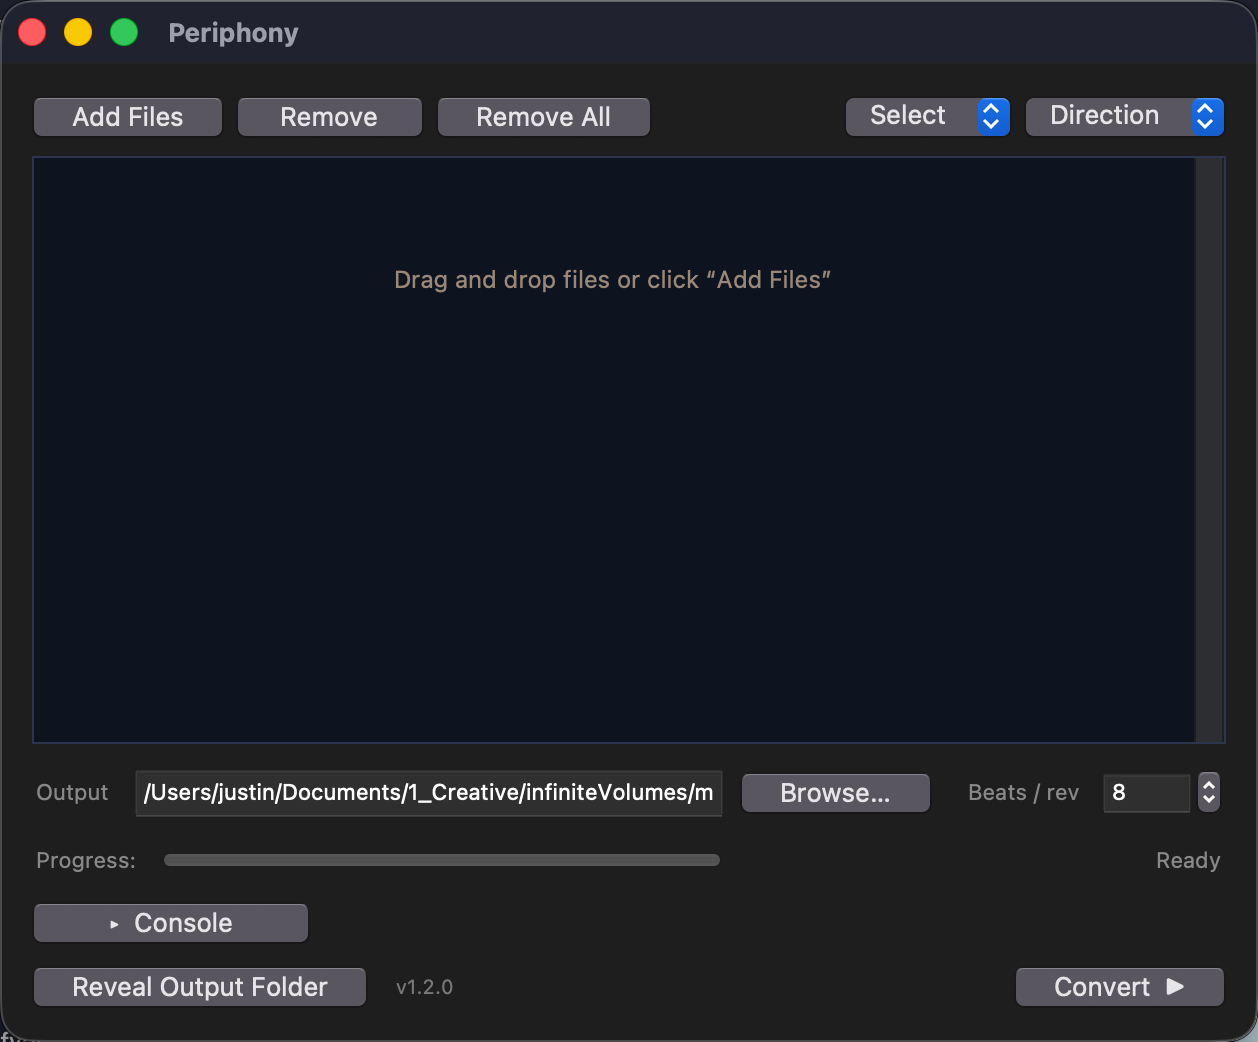
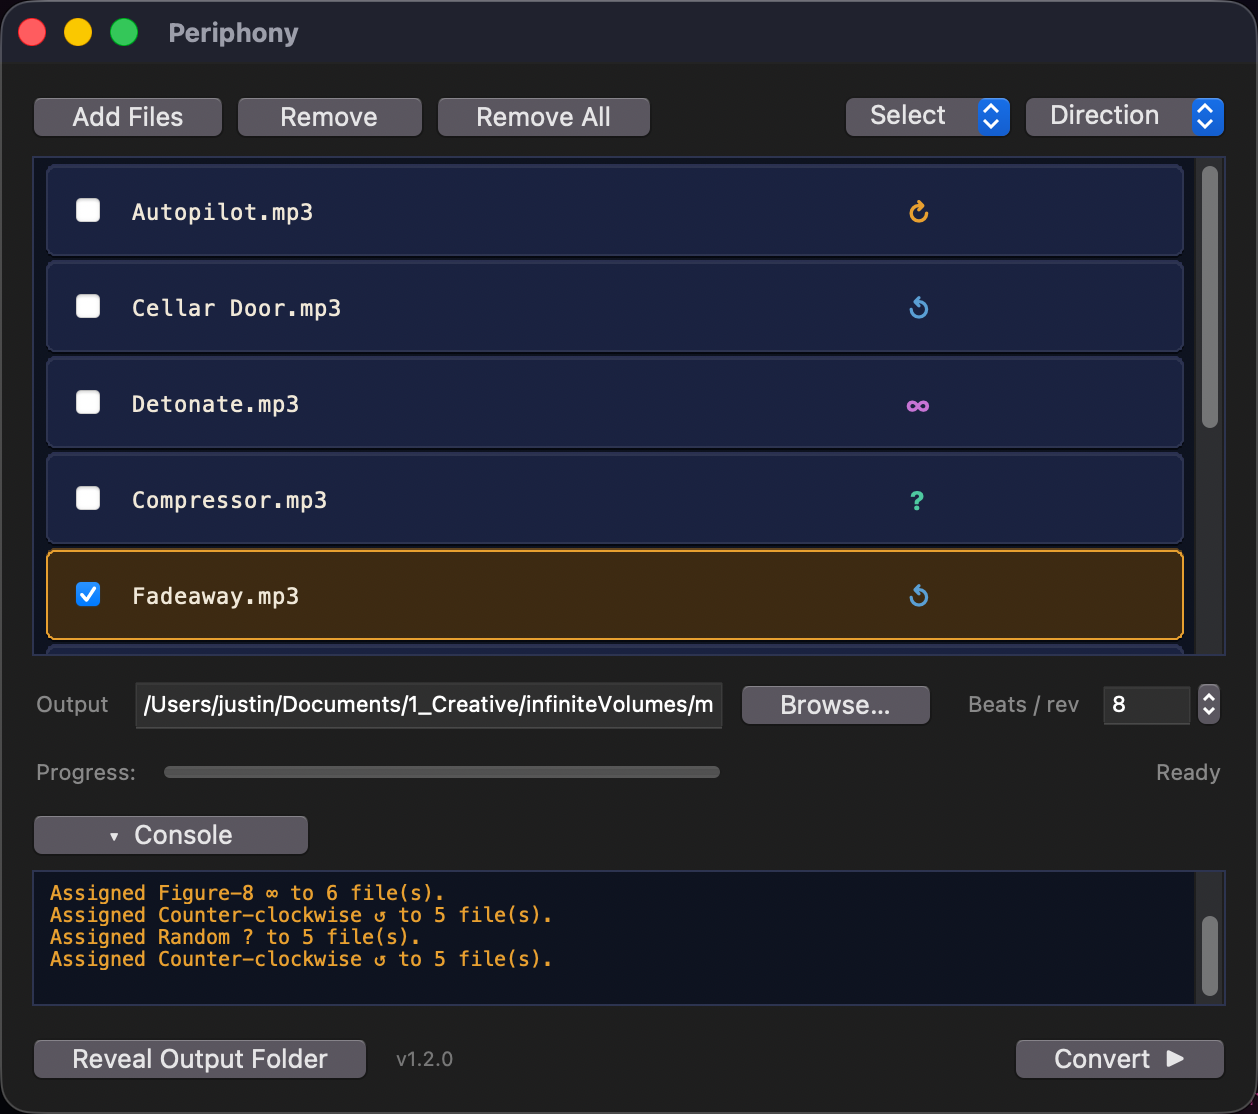
feat: shoot Periphony's real interface for the tile and the article
Both places the app's UI appears were standing in for it.

The gallery plate was built from an empty window — the queue could not be
populated programmatically, so it showed a drop zone reading "Drag and drop
files or click Add Files", which is a poor advertisement for a batch
converter. It now shows a real queue: five tracks each tagged with the
rotation glyph assigned to it, the output folder, beats per revolution, and
the console open underneath.

The article figure was not a stale screenshot but a MOCK — invented track
names, a window titled "Periphony 8D" when the app titles itself
"Periphony", and an output path that does not exist on this machine. It is
now the app four tracks into a ten-track batch: three done in green, one
mid-progress, and the console reporting what the engine worked out for the
track that just finished.

The caption changed with it. It used to promise "the loudness it matched
back to the source", and the console does not print a LUFS line — it prints
detected BPM, rotation rate, direction and output filename. The caption now
quotes what is actually on screen, and reads the 125 BPM / 0.260 Hz / 3.8s
per revolution chain out loud, which is the point that paragraph is making
anyway.

Both files are renamed rather than overwritten: periphony-thumb.webp and
periphony-app.webp both went live an hour ago under max-age=604800 with no
purge available, so re-rendering in place would have been served as the old
[…]

diff --git a/site/projects/periphony/index.html b/site/projects/periphony/index.html
@@ -135,9 +135,9 @@ One more trap worth writing down, because it cost me a real amount of time. To c
 
 It's a single Python file. Drop MP3s on it, pick a direction, press convert, get 320 kbps MP3s back. It runs entirely on your machine — no account, no telemetry, nothing uploaded.</div>
 <figure class="cy-figure">
-  <img src="/assets/images/articles/periphony-app.webp" alt="The Periphony 8D window with several tracks queued, each showing a direction glyph, and the console log open below."
-       width="1280" height="1185" loading="lazy" decoding="async">
-  <figcaption>The app itself. Tracks queued with a per-file trajectory &mdash; clockwise, counter-clockwise, figure-eight or random &mdash; and the console reporting what the engine measured: detected tempo, rotation rate, and the loudness it matched back to the source.
+  <img src="/assets/images/articles/periphony-app2.webp" alt="The Periphony window mid-batch: ten tracks queued, each tagged with a rotation glyph, the first three marked Done in green and the fourth showing a progress bar. Below, the readout Processing 4 of 10: Compressor, and an open console listing the detected BPM, rotation rate, direction and output filename for the track that just finished."
+       width="1318" height="1336" loading="lazy" decoding="async">
+  <figcaption>The app itself, four tracks into a ten-track batch. Each file carries its own trajectory &mdash; clockwise, counter-clockwise, figure-eight or random &mdash; and the console reports what the engine worked out for the one it just finished: 125 BPM detected, which at eight beats per revolution puts the orbit at 0.260 Hz, or 3.8 seconds to travel once around your head.
   </figcaption>
 </figure>
 <div class="cy-meta cy-section-label">:: four months on a shelf</div>

diff --git a/site/index.html b/site/index.html
@@ -116,7 +116,7 @@ SPDX-License-Identifier: BSD-3-Clause
       <span class="cy-project__num" aria-hidden="true">02</span>
       <div class="cy-project__media">
         <a href="/projects/periphony/" tabindex="-1" aria-hidden="true">
-          <img class="cy-project__img" src="/assets/images/articles/periphony-thumb.webp" alt="The Periphony application window on macOS, on a dark blue field: its file queue, output folder, a beats-per-revolution setting and a Convert button. The word PERIPHONY is set large behind it, beside a circle ticked at the 36 positions it spatialises to." width="1600" height="900" loading="lazy">
+          <img class="cy-project__img" src="/assets/images/articles/periphony-thumb2.webp" alt="The Periphony application window on macOS, on a dark blue field: a queue of five tracks each tagged with a rotation glyph, an output folder, a beats-per-revolution setting and a Convert button, with the console open below. The word PERIPHONY is set large behind it, beside a circle ticked at the 36 positions it spatialises to." width="1600" height="900" loading="lazy">
         </a>
       </div>
       <div class="cy-project__body">

diff --git a/tools/thumbs/plates/periphony.html b/tools/thumbs/plates/periphony.html
@@ -2,6 +2,10 @@
 <html lang="en">
 <meta charset="utf-8">
 <title>plate :: periphony</title>
+<!-- Renamed from periphony-thumb.webp: that name is already live under
+     max-age=604800 with no purge available, so re-rendering in place would
+     be served as the old bytes. See ../build.sh. -->
+<meta name="cy-thumb" content="periphony-thumb2.webp">
 <!--
   Gallery thumbnail source for /projects/periphony/. Rendered to
   site/assets/images/articles/periphony-thumb.webp by ../build.sh.
@@ -13,7 +17,7 @@
   /* Sized off the contact sheet, not the plate: at 272px the window has
      to be big enough to still read as an application window rather than
      a grey rectangle. */
-  .plate__subject { left: 92px; top: 178px; width: 704px; }
+  .plate__subject { left: 92px; top: 166px; width: 668px; }
 </style>
 
 <div class="plate">

diff --git a/tools/thumbs/README.md b/tools/thumbs/README.md
@@ -73,3 +73,30 @@ are three answers in here and the right one depends on the photograph:
 
 Then add the tile to `site/index.html` — and remember the gallery header's
 `// NN records` count is hardcoded.
+
+## The Periphony article figure
+
+`site/assets/images/articles/periphony-app2.webp` is not a plate — it is a
+straight `cwebp` of `sources/periphony-converting.png`, the app captured
+four tracks into a ten-track batch. It replaced a **mock**: the old
+`periphony-app.webp` showed invented track names, a window titled
+"Periphony 8D" when the app titles itself "Periphony", and an output path
+that did not exist on the machine.
+
+Re-shooting it means driving the app by hand, because its UI exposes
+nothing but a titlebar to accessibility — there is no way to load the queue
+or press Convert from a script, and no synthetic-click tool installed. Load
+files, press Convert, wait until a few tracks are green, then:
+
+```bash
+b=$(osascript -e 'tell application "System Events" to tell process "Periphony" \
+      to get {position, size} of window 1' | tr -d ' ')
+screencapture -x -R "$b" sources/periphony-converting.png
+cwebp -q 90 -m 6 sources/periphony-converting.png \
+      -o ../../site/assets/images/articles/periphony-appN.webp
+```
+
+Bring the window to the front first: `screencapture -R` shoots a screen
+rectangle, not a window, so anything overlapping that region lands in the
+frame instead. And mind the caption — it quotes the console, so it has to
+be re-read against whatever the new shot actually says.
